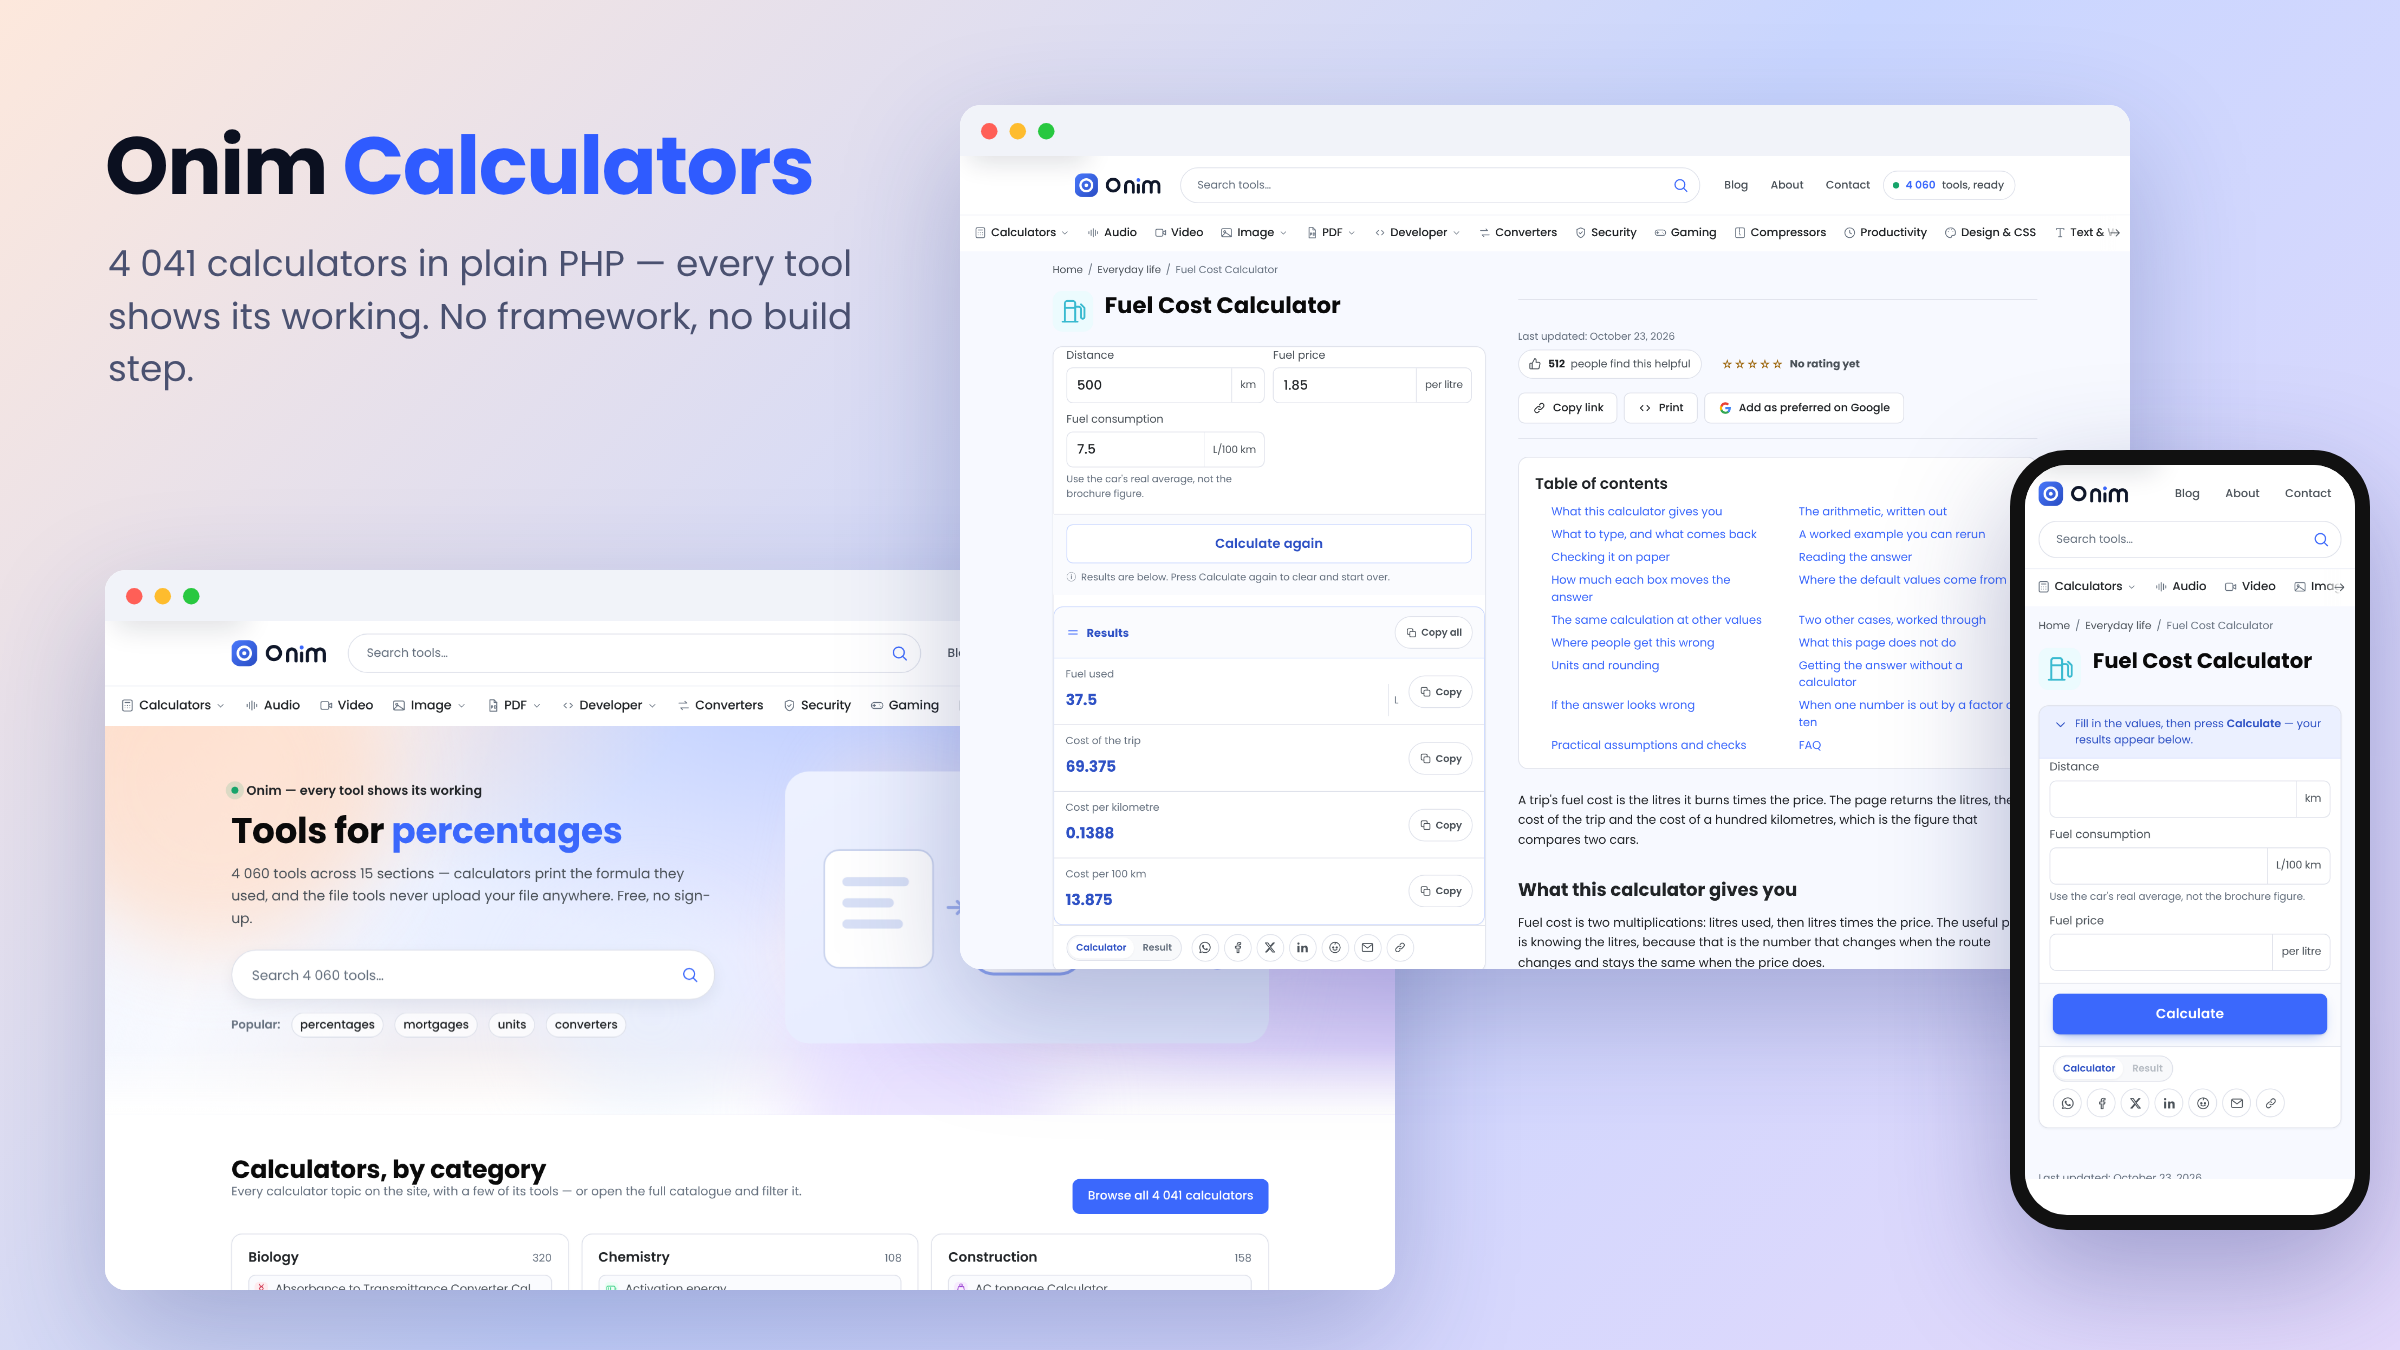
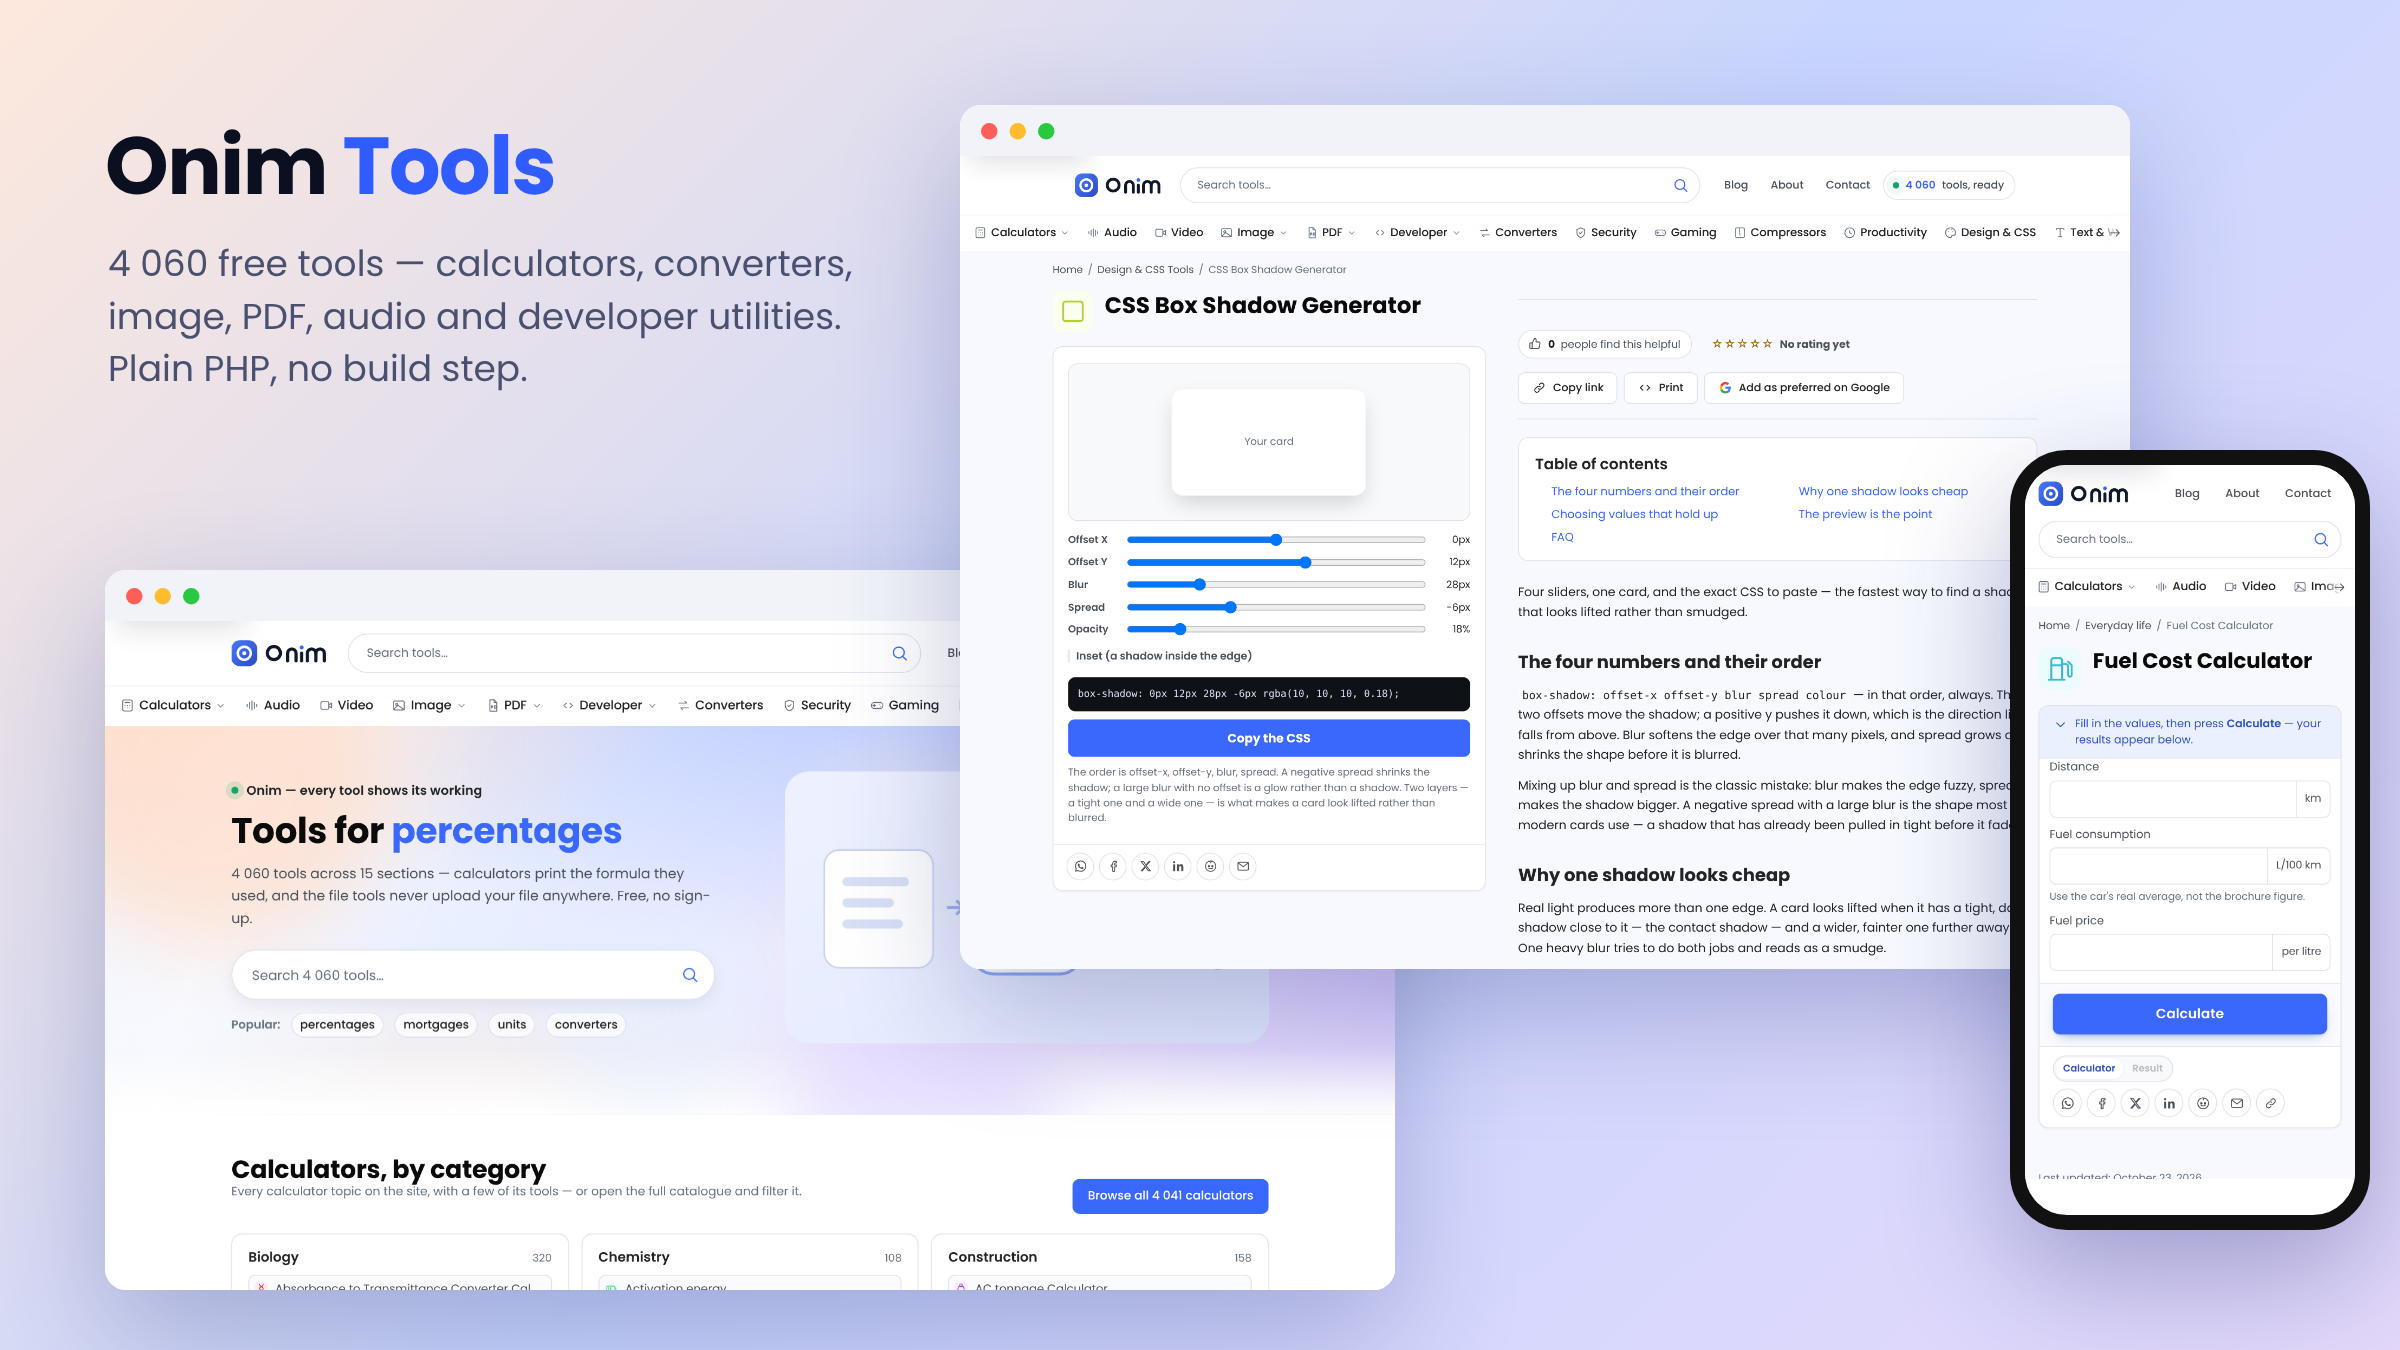
README: present the project as Onim Tools, add tool screenshots
Claude-Session: https://claude.ai/code/session_01BJLBVobmUPoRQGdrPkeGAQ

diff --git a/README.md b/README.md
@@ -1,19 +1,20 @@
 <div align="center">
 
-<img src="docs/screenshots/hero.png" alt="Onim Calculators on desktop and mobile" width="100%">
+<img src="docs/screenshots/hero.png" alt="Onim Tools on desktop and mobile" width="100%">
 
-# Onim Calculators
+# Onim Tools
 
-**4 041 calculators in plain PHP — every tool shows its working.**<br>
+**4 060 free online tools in plain PHP — calculators, converters and file tools that show their working.**<br>
 No framework, no build step, no Composer, no Node, no third-party calls at runtime.
 
 ![PHP 8.1+](https://img.shields.io/badge/PHP-8.1%2B-777BB4?logo=php&logoColor=white)
-![Calculators](https://img.shields.io/badge/calculators-4%20041-2f5bff)
-![Categories](https://img.shields.io/badge/categories-14-0ea5e9)
+![Tools](https://img.shields.io/badge/tools-4%20060-2f5bff)
+![Calculators](https://img.shields.io/badge/formula%20calculators-4%20041-6366f1)
+![Sections](https://img.shields.io/badge/tool%20sections-16-0ea5e9)
 ![Dependencies](https://img.shields.io/badge/dependencies-none-16a34a)
 ![Deploy](https://img.shields.io/badge/deploy-git%20push-f59e0b)
 
-[Live site](https://mcqsgenerator.com/tool) · [Quick start](#quick-start-local) · [Deploy](#deploy) · [Calculator file format](docs/calc-files.md) · [Admin panel](docs/ADMIN-PANEL.md)
+[Live site](https://mcqsgenerator.com/tool) · [Quick start](#quick-start-local) · [Deploy](#deploy) · [Calculator files](docs/calc-files.md) · [Tool plugins](plugins/README.md) · [Admin panel](docs/ADMIN-PANEL.md)
 
 </div>
 
@@ -21,10 +22,30 @@ No framework, no build step, no Composer, no Node, no third-party calls at runti
 
 ## Screenshots
 
-| Home | Category page |
+### The toolbox
+
+| Home | All tools |
 |:---:|:---:|
-| <img src="docs/screenshots/home.png" alt="Home page"> | <img src="docs/screenshots/category-everyday-life.png" alt="Everyday life category with 287 calculators"> |
-| Search, popular topics and every category at a glance | A–Z index and in-category search |
+| <img src="docs/screenshots/home.png" alt="Onim home page"> | <img src="docs/screenshots/all-tools.png" alt="All tools, filtered by section"> |
+| Search, popular topics and every section at a glance | Interactive tools filtered by section |
+
+### Interactive tools
+
+File and design tools run entirely in the browser — nothing is uploaded.
+
+| CSS Box Shadow Generator | Image Converter |
+|:---:|:---:|
+| <img src="docs/screenshots/tool-box-shadow.png" alt="CSS box shadow generator with live preview"> | <img src="docs/screenshots/tool-image-converter.png" alt="Image converter, PNG JPEG WebP"> |
+| Live preview, sliders and copy-ready CSS | PNG, JPEG and WebP with the resulting size shown |
+
+| Tone Generator | Pomodoro Timer |
+|:---:|:---:|
+| <img src="docs/screenshots/tool-tone-generator.png" alt="Tone generator"> | <img src="docs/screenshots/tool-pomodoro.png" alt="Pomodoro timer"> |
+| Play and save tones on the page | Timers for focus sessions |
+
+### Formula calculators
+
+<p align="center"><img src="docs/screenshots/category-everyday-life.png" alt="Everyday life category with 287 calculators" width="80%"><br><sub>Category page — A–Z index and in-category search (287 everyday-life calculators)</sub></p>
 
 | Calculator, before | Calculator, after pressing Calculate |
 |:---:|:---:|
@@ -36,18 +57,21 @@ No framework, no build step, no Composer, no Node, no third-party calls at runti
   &nbsp;&nbsp;&nbsp;
   <img src="docs/screenshots/mobile-calculator.png" alt="Mobile calculator page" width="260">
 </p>
-<p align="center"><sub>Responsive down to phone width — same page, same engine.</sub></p>
+<p align="center"><sub>Responsive down to phone width — same pages, same engine.</sub></p>
 
 ## Highlights
 
+- **Tools, not only calculators.** 4 041 formula calculators across 14 categories, plus interactive tools for images, PDF, audio, video, text, CSS, security and more — 16 sections in all.
+- **Private by design.** File tools run in the browser and never upload your file.
 - **Calculate on demand.** No field is prefilled and nothing is computed until you press Calculate.
 - **Shows its working.** Every page prints the formula, a worked example and a written explanation.
 - **File-based catalogue.** Calculators are plain PHP files (`plugins/calc/<category>/`), so they deploy without a database.
 - **One engine.** A single declarative equation solver, in PHP and JS, drives every page.
 - **Everyday-life section.** 287 calculators for time, dates, sizes, fuel, text styling and more, each one file.
+- **Easy to extend.** A new tool is one PHP file in `plugins/` ([guide](plugins/README.md)); a new calculator is one file in `plugins/calc/` ([format](docs/calc-files.md)).
 - **Zero runtime dependencies.** Vendored Tailwind build, system fonts, vanilla JS.
 
-## How a calculator is served
+## How a page is served
 
 ```mermaid
 flowchart LR
@@ -62,7 +86,7 @@ flowchart LR
 
 ---
 
-The calculator site served at **mcqsgenerator.com/tool**.
+The tools site served at **mcqsgenerator.com/tool**.
 
 
 The brand is **Onim** — name, logo and all 16 social-card images — after a rename
@@ -70,7 +94,7 @@ from the original Omni name, which carried a trademark the site should not lean 
 `007_brand_rename.sql` moves the same name in the database, because three settings
 (`site_name`, `seo_title_suffix`, `mail_from_name`) override the code.
 
-A self-contained rebuild of the Onim Calculator catalogue, packaged to run from
+A self-contained rebuild of the Onim tools catalogue — calculators first, plus the interactive tools — packaged to run from
 **https://mcqsgenerator.com/tool** (a folder under the domain root, not a separate
 vhost). Plain PHP 8.1+, hand-written CSS, vanilla JS: no framework, no build step,
 no Composer, no Node, and no third-party call at runtime — Tailwind is a vendored
@@ -78,6 +102,7 @@ build in `assets/js/vendor/`, fonts are system fonts.
 
 | | |
 |---|---|
+| Tools | **4 060** in 16 sections: the formula calculators below plus interactive tools (image, PDF, audio, video, text, CSS, security, gaming and more) |
 | Calculators | **4 041** across 14 categories (320 biology) — every one of them a file, so they deploy without a database |
 | Calculator files | biology, chemistry and construction are **one file per calculator** (`plugins/calc/<cat>/`): 586 pages with the form, the formulas and the article in one place |
 | Sitemap | 4 057 URLs from files (4 065 once the CMS pages are imported), all under `/tool/` |
